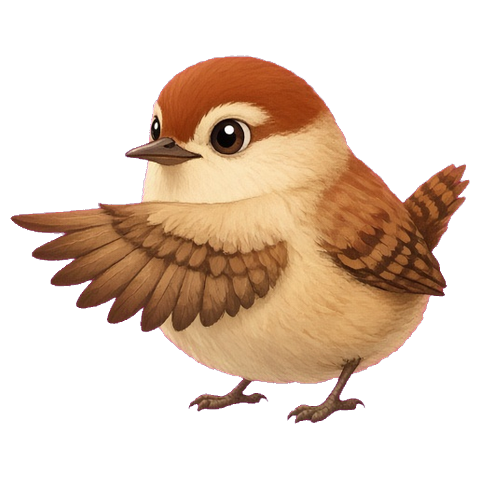
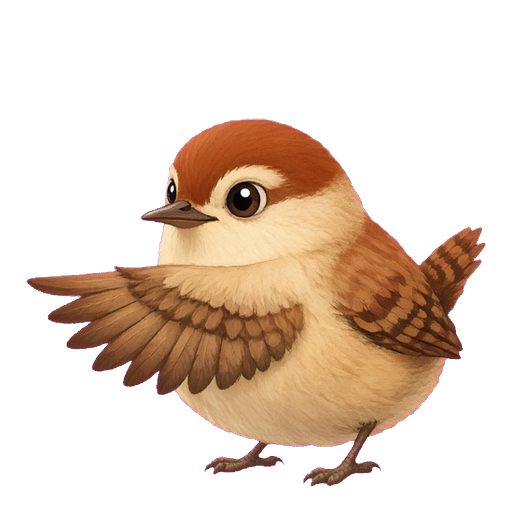
0.1.11: same-size wing-flap frames; white text on dark panels.
Animation was zooming because each sprite was cropped to a different
box. All frames are now 512x512, feet locked, talk is a wing raise.
Idle-3 wink is unused. Labels use white Pango markup on #1a1a1a so
Adwaita cannot paint gray-on-white.

diff --git a/linux/wren/overlay.py b/linux/wren/overlay.py
@@ -20,108 +20,63 @@ os.environ.setdefault("GSK_RENDERER", "cairo")
 
 CSS = b"""
 window.wren-window,
-window.wren-window.background,
-window.wren-window.csd,
-window.wren-window.solid-csd,
-window.wren-window.undecorated {
+window.wren-window.background {
   background-color: transparent;
   background-image: none;
   border: none;
   box-shadow: none;
-  outline: none;
 }
-window.wren-window decoration,
-window.wren-window headerbar,
-window.wren-window .titlebar,
-window.wren-window windowcontrols {
-  background-color: transparent;
-  min-height: 0;
-  padding: 0;
-  margin: 0;
-  opacity: 0;
-}
-.wren-root, windowhandle, picture {
-  background-color: transparent;
-  background-image: none;
-}
-popover.wren-pop,
-popover.wren-pop > contents,
-popover.wren-speech,
-popover.wren-speech > contents {
-  background-color: #16181d;
-  color: #f6f1ea;
-  border-radius: 16px;
-  border: 1px solid rgba(255,255,255,0.14);
-  box-shadow: 0 18px 50px -18px rgba(0,0,0,0.55);
-  padding: 10px;
+popover contents {
+  background-color: #1a1a1a;
+  color: #ffffff;
+  padding: 12px;
+  border-radius: 12px;
 }
 box.wren-chat {
-  background-color: #16181d;
-  color: #f6f1ea;
+  background-color: #1a1a1a;
+  color: #ffffff;
   min-width: 280px;
   min-height: 240px;
 }
-box.wren-chat label,
-box.wren-perm label,
-popover.wren-pop label,
-popover.wren-speech label {
-  color: #f6f1ea;
-  background-color: transparent;
+label, box.wren-chat label, box.wren-perm label {
+  color: #ffffff;
 }
 label.wren-title {
   font-size: 15px;
   font-weight: 600;
-  color: #f6f1ea;
+  color: #ffffff;
 }
 label.wren-sub {
   font-size: 12px;
-  color: #c8c2b8;
+  color: #dddddd;
 }
-label.wren-msg-user {
-  background-color: #e8e2d8;
-  color: #141414;
-  border-radius: 8px;
-  padding: 8px 10px;
-  font-size: 13px;
-  font-weight: 500;
-}
-label.wren-msg-wren {
-  background-color: #111318;
-  color: #f6f1ea;
-  border-radius: 8px;
-  padding: 8px 10px;
-  font-size: 13px;
-}
-box.wren-perm {
-  background-color: #1c1f26;
-  border-radius: 12px;
-  border: 1px solid rgba(255,255,255,0.12);
-  padding: 10px 12px;
-}
-popover.wren-speech label {
-  color: #f6f1ea;
+label.wren-msg-user, label.wren-msg-wren {
+  color: #ffffff;
+  background-color: transparent;
   font-size: 14px;
   font-weight: 500;
 }
-.wren-chat entry {
-  background-color: #0f1115;
-  color: #f6f1ea;
-  caret-color: #f6f1ea;
-  border-radius: 8px;
+box.wren-perm {
+  background-color: #1a1a1a;
+  padding: 8px;
+}
+entry {
+  background-color: #111111;
+  color: #ffffff;
   min-height: 36px;
   padding: 6px 10px;
-  border: 1px solid rgba(255,255,255,0.14);
+  border-radius: 8px;
 }
-.wren-chat button, .wren-perm button {
-  background-color: #2a2e38;
-  color: #f6f1ea;
+button {
+  background-color: #333333;
+  color: #ffffff;
   border-radius: 8px;
   min-height: 32px;
   padding: 4px 10px;
 }
 button.wren-yes {
-  background-color: #e8e2d8;
-  color: #141414;
+  background-color: #444444;
+  color: #ffffff;
   font-weight: 600;
 }
 """
@@ -189,7 +144,8 @@ def launch(cfg: WrenConfig) -> None:
             self._messages: list[tuple[str, str]] = []
 
             css = Gtk.CssProvider()
-            css.load_from_data(CSS)
+            if not css.load_from_data(CSS):
+                print("Wren: CSS failed to load", file=sys.stderr)
             Gtk.StyleContext.add_provider_for_display(
                 Gdk.Display.get_default(),
                 css,
@@ -306,10 +262,12 @@ def launch(cfg: WrenConfig) -> None:
 
             header = Gtk.Box(orientation=Gtk.Orientation.HORIZONTAL, spacing=8)
             titles = Gtk.Box(orientation=Gtk.Orientation.VERTICAL, spacing=0)
-            name = Gtk.Label(label="Wren", xalign=0)
+            name = Gtk.Label(xalign=0)
             name.add_css_class("wren-title")
-            sub = Gtk.Label(label="Ask, or let her watch", xalign=0)
+            self._set_text(name, "Wren")
+            sub = Gtk.Label(xalign=0)
             sub.add_css_class("wren-sub")
+            self._set_text(sub, "Ask, or let her watch")
             titles.append(name)
             titles.append(sub)
             titles.set_hexpand(True)
@@ -379,6 +337,12 @@ def launch(cfg: WrenConfig) -> None:
             row.append(no)
             box.append(row)
             return box
+
+        def _set_text(self, label, text: str, color: str = "#ffffff") -> None:
+            label.set_use_markup(True)
+            label.set_markup(
+                f'<span foreground="{color}">{GLib.markup_escape_text(text)}</span>'
+            )
 
         def set_pose(self, pose: str) -> None:
             if pose not in self._poses:
@@ -475,10 +439,11 @@ def launch(cfg: WrenConfig) -> None:
         def add_message(self, role: str, text: str) -> None:
             if self._hints.get_parent() is self.msg_box:
                 self.msg_box.remove(self._hints)
-            lab = Gtk.Label(label=text, wrap=True, xalign=0 if role != "user" else 1, max_width_chars=28)
+            lab = Gtk.Label(wrap=True, xalign=0 if role != "user" else 1, max_width_chars=28)
             lab.add_css_class("wren-msg-user" if role == "user" else "wren-msg-wren")
             lab.set_halign(Gtk.Align.END if role == "user" else Gtk.Align.START)
             lab.set_selectable(True)
+            self._set_text(lab, text)
             self.msg_box.append(lab)
             self._messages.append((role, text))
 
@@ -493,7 +458,7 @@ def launch(cfg: WrenConfig) -> None:
         def say(self, text: str, *, animate: bool = False) -> None:
             if animate:
                 self.set_pose("talk")
-            self.bubble.set_text(text)
+            self._set_text(self.bubble, text)
             self.speech_pop.popup()
             if self._hide_id:
                 GLib.source_remove(self._hide_id)
@@ -759,8 +724,8 @@ def launch(cfg: WrenConfig) -> None:
             self._pending = action
             self._pending_after = after
             extra = action.command or action.url or ""
-            self.perm_title.set_text(action.title)
-            self.perm_detail.set_text(f"{action.detail}\n{extra}\nrisk: {action.risk}")
+            self._set_text(self.perm_title, action.title)
+            self._set_text(self.perm_detail, f"{action.detail}\n{extra}\nrisk: {action.risk}", "#dddddd")
             self.perm_box.set_visible(True)
             self.open_chat()
 

diff --git a/linux/wren/assets.py b/linux/wren/assets.py
@@ -12,9 +12,9 @@ ICON_NAME = "dev.wren.companion"
 ICON_SIZES = (48, 64, 128, 256, 512)
 POSES = {
     "idle": ("idle-1.png",),
-    "think": ("think-1.png", "think-2.png", "think-4.png"),
+    "think": ("think-1.png", "think-2.png"),
     "point": ("point-1.png", "point-2.png", "point-3.png"),
-    "talk": ("idle-1.png", "idle-2.png", "idle-4.png", "idle-2.png"),
+    "talk": ("idle-1.png", "idle-2.png", "point-1.png", "point-2.png", "point-1.png", "idle-2.png"),
 }
 
 

diff --git a/linux/wren/__init__.py b/linux/wren/__init__.py
@@ -3,4 +3,4 @@
 Offline-first. Watches only with permission. Never acts until you say yes.
 """
 
-__version__ = "0.1.10"
+__version__ = "0.1.11"

diff --git a/linux/README.md b/linux/README.md
@@ -50,7 +50,7 @@ The host is immutable. Wren runs **on the host** (GTK 4 is already there). Ollam
 
 Then search **Wren** in the app grid, or run `wren`.
 
-If you only see a tiny gray sentence on the wallpaper, you are on 0.1.0. Current is 0.1.10 — tap the bird for a chat popover; speech is a bubble that does not move him.
+If you only see a tiny gray sentence on the wallpaper, you are on 0.1.0. Current is 0.1.11 — wing-flap talk, dark bubble with white text.
 
 ```bash
 wren --doctor          # sprite / ollama / RAM

diff --git a/README.md b/README.md
@@ -49,7 +49,7 @@ Details: [linux/README.md](linux/README.md).
 
 ## Status
 
-v0.1.10 — playground + GTK overlay + Ollama brain + gated actions. Help wanted: Hyprland window titles, Piper voices, a quieter watch heuristic.
+v0.1.11 — playground + GTK overlay + Ollama brain + gated actions. Help wanted: Hyprland window titles, Piper voices, a quieter watch heuristic.
 
 ## License
 
